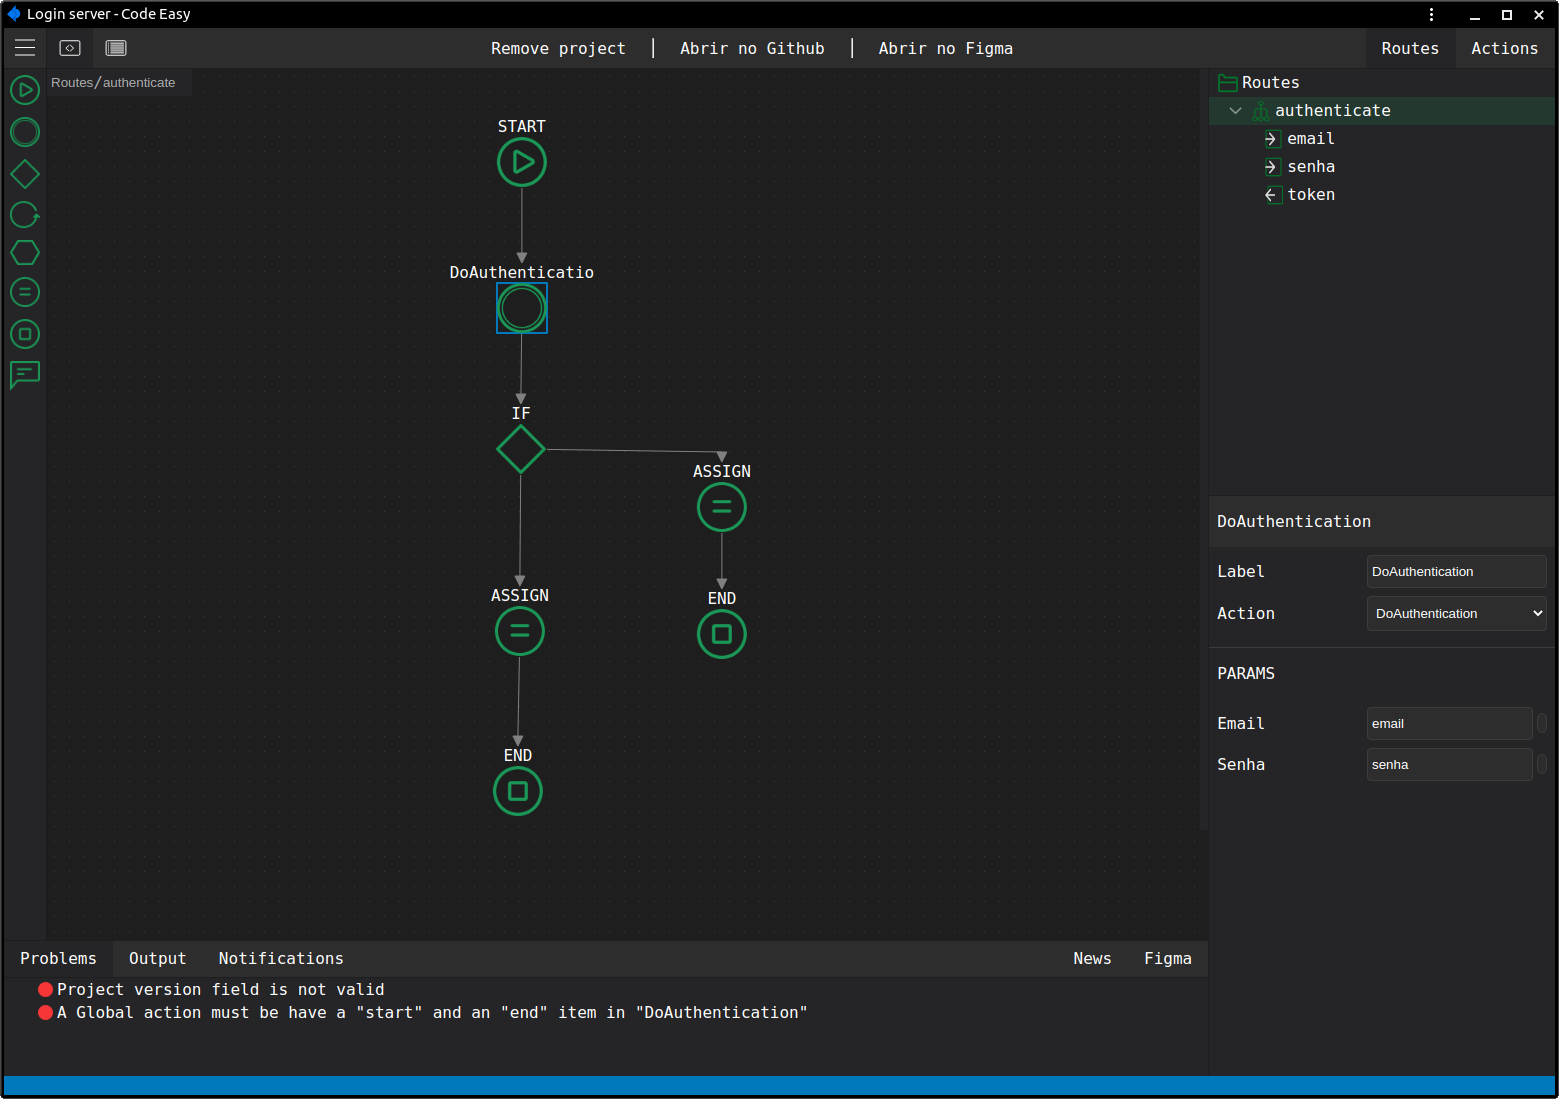
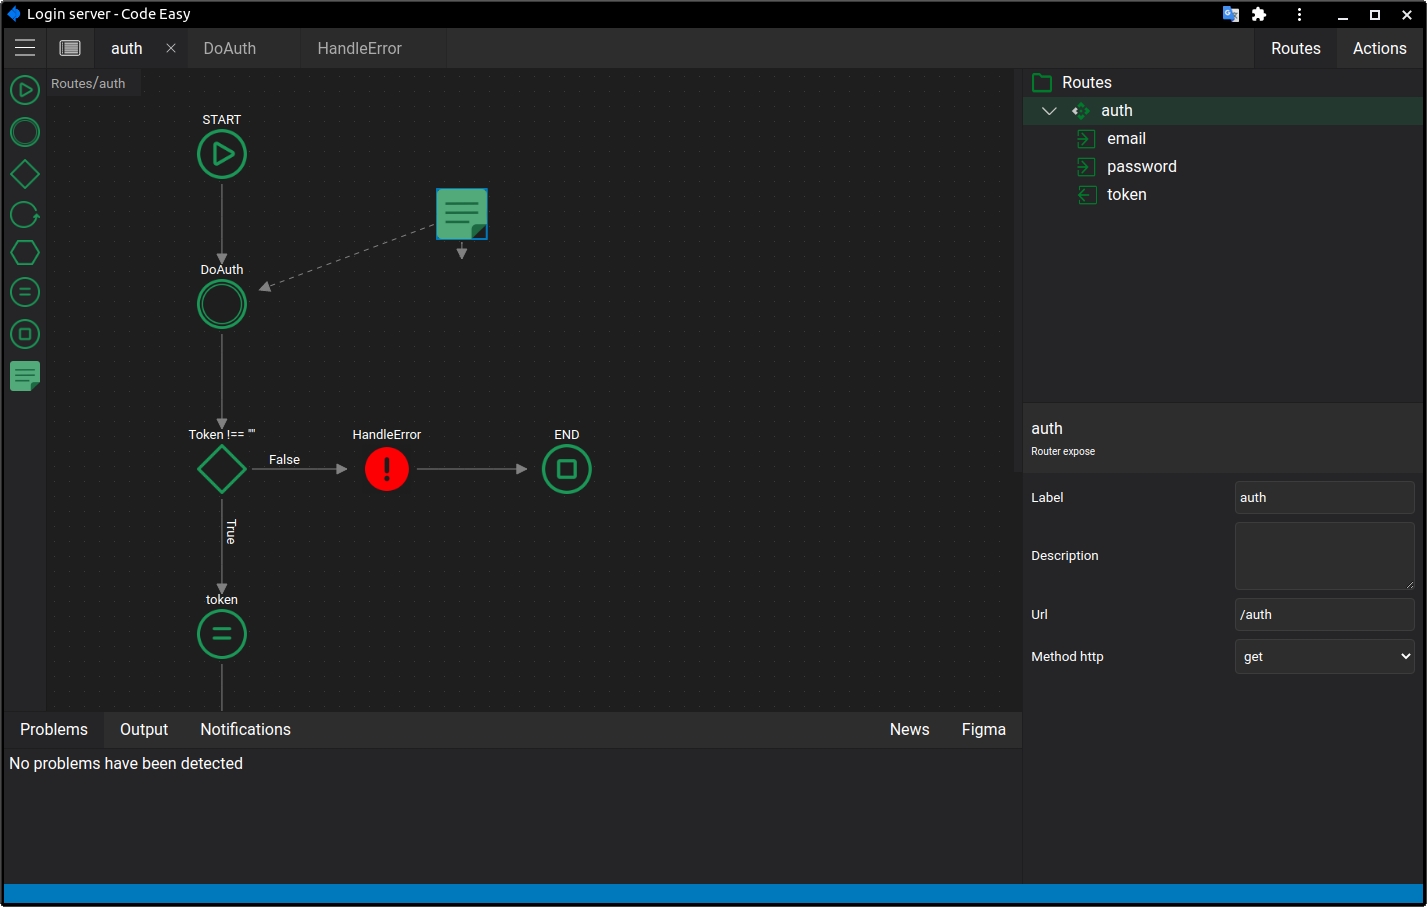
feat: added error validations

diff --git a/src/app/shared/services/helpers/ProblemsHelper.ts b/src/app/shared/services/helpers/ProblemsHelper.ts
@@ -5,7 +5,6 @@ import { ItemType } from "../../components/code-editor/shared/enums/ItemType";
 import { Project, IProjectConfigs } from "../../interfaces/Aplication";
 import { PropertieTypes } from "../../enuns/PropertieTypes";
 import { ComponentType } from "../../enuns/ComponentType";
-import { Tab } from "../../interfaces/Tabs";
 
 class ProblemsHelperService {
     private _problems: TreeInterface[] = [];
@@ -22,7 +21,7 @@ class ProblemsHelperService {
         project.tabs.forEach(tab => {
 
             // Valida alguns detalhes da tab
-            this._getTabsProblems(tab);
+            this._problems = [...this._problems, ...tab.getProblems()];
 
             // Valida os items da tab
             tab.items.forEach(treeItem => {
@@ -31,7 +30,6 @@ class ProblemsHelperService {
                 this._problems = [...this._problems, ...treeItem.getProblems()];
 
                 treeItem.items.forEach(flowItem => {
-                    flowItem.hasError = false;
 
                     // Valida os problemas presentes no flow item
                     this._problems = [...this._problems, ...flowItem.getProblems()];
@@ -41,12 +39,6 @@ class ProblemsHelperService {
 
                         flowItem.properties.forEach(prop => {
                             prop.valueHasError = false;
-
-                            // Valida se action está com o campo "action" vazio.
-                            if (prop.propertieType === PropertieTypes.action && prop.value === "") {
-                                this._addProblem(`In "${treeItem.label}" the flow item "${flowItem.name}" must have a valid value in the "${prop.name}" field.`, 'error');
-                                prop.valueHasError = true;
-                            }
 
                             if (prop.propertieType === PropertieTypes.action && prop.value !== "") {
 
@@ -145,14 +137,6 @@ class ProblemsHelperService {
             this._addProblem('Project Author name field cannot be less than 3 characters', 'warning');
         } else if (configs.autor.length > 50) {
             this._addProblem('Project Author name field cannot exceed 50 characters', 'warning');
-        }
-
-    }
-
-    private _getTabsProblems(tab: Tab) {
-
-        if (tab.items.length === 0 && tab.configs.type === ComponentType.tabRoutes) {
-            this._addProblem(`Add at least one route to your app`, 'error');
         }
 
     }

diff --git a/src/app/shared/interfaces/ItemTreeComponent.ts b/src/app/shared/interfaces/ItemTreeComponent.ts
@@ -170,9 +170,12 @@ export class ItemComponent implements IItemComponent {
         if (this.type !== ComponentType.routerConsume) {
 
             // Valida o numero de starts na tela
-            const numStarts = this.items.filter(itemFlow => itemFlow.itemType === ItemType.START);
+            let numStarts = this.items.filter(itemFlow => itemFlow.itemType === ItemType.START);
             if (numStarts.length > 1) {
                 addProblem(`In ${this.label} must have only start flow item`, 'error');
+                numStarts.forEach(start => start.hasError = true);
+            } else {
+                numStarts.forEach(start => start.hasError = false);
             }
 
             // Valida se encontra um start e um end na tela
@@ -181,8 +184,9 @@ export class ItemComponent implements IItemComponent {
                     addProblem(`A "${this.type}" must be have a "Start" and an "End" item in "${this.label}"`, 'error');
                 }
             }
+
             // Valida os ends
-            const unusedEnd = this.items.find(itemFlow => (itemFlow.itemType === ItemType.END) && !this.items.some(flowItem => flowItem.connections.some(connection => connection.connectionId === itemFlow.id)));
+            let unusedEnd = this.items.find(itemFlow => (itemFlow.itemType === ItemType.END) && !this.items.some(flowItem => flowItem.connections.some(connection => connection.connectionId === itemFlow.id)));
             if (unusedEnd) {
                 addProblem(`In "${this.label}" a "${unusedEnd.name}" flow item is not used`, 'error');
                 unusedEnd.hasError = true;

diff --git a/src/app/shared/interfaces/Tabs.ts b/src/app/shared/interfaces/Tabs.ts
@@ -1,4 +1,7 @@
 import { ItemComponent, ComponentConfigs } from "./ItemTreeComponent";
+import { TreeInterface } from "../components/tree-manager/shared/models";
+import { IconWarning, IconError } from "code-easy-components";
+import { ComponentType } from "../enuns/ComponentType";
 
 export class Tab {
     public configs: ComponentConfigs;
@@ -13,4 +16,29 @@ export class Tab {
         this.configs = this._fields.configs;
         this.items = this._fields.items.map(item => new ItemComponent(item));
     }
+
+    public getProblems(): TreeInterface[] {
+        let problems: TreeInterface[] = [];
+
+        const addProblem = (label: string, type: 'warning' | 'error') => {
+            problems.push({
+                icon: type === 'warning' ? IconWarning : IconError,
+                isDisabledSelect: true,
+                nodeExpanded: false,
+                isSelected: false,
+                id: undefined,
+                iconSize: 15,
+                type: "ITEM",
+                childs: [],
+                label,
+            });
+        }
+
+        if (this.items.length === 0 && this.configs.type === ComponentType.tabRoutes) {
+            addProblem(`Add at least one route to your app`, 'error');
+        }
+
+        return problems;
+    }
+
 }

diff --git a/src/app/pages/editor/Editor.tsx b/src/app/pages/editor/Editor.tsx
@@ -8,7 +8,7 @@ import { ProjectsStorage } from '../../shared/services/storage/ProjectsStorage';
 import { ProblemsHelper } from '../../shared/services/helpers/ProblemsHelper';
 import { ToolBar } from '../../shared/components/tool-bar/ToolBar';
 import { Project } from '../../shared/interfaces/Aplication';
-import { EditorTab } from './editor-tab/EditorTab';
+import { Playground } from './editor-tab/Playground';
 import './Editor.css';
 
 
@@ -16,7 +16,7 @@ export class Editor extends React.Component<any> {
     private params: any = this.props.match.params;
 
     public state: ICodeEditorContext = {
-        currentTab: <EditorTab />,
+        currentTab: <Playground />,
         project: ProjectsStorage.getProjectById(this.params.id),
         updateProjectState: (project: Project) => this.updateProjectState(project),
     }
@@ -32,7 +32,6 @@ export class Editor extends React.Component<any> {
 
         // WindowsTabsManager
         project = ProjectsStorage.updateWindowTabs(project);
-
 
         // Salva a nova versão do projeto no local storage
         ProjectsStorage.setProjectById(project);

diff --git a/src/app/shared/interfaces/ItemFlowComponent.ts b/src/app/shared/interfaces/ItemFlowComponent.ts
@@ -186,6 +186,19 @@ export class ItemFlowComplete implements IItemFlowComplete {
 
         }
 
+        // Valida as propriedades
+        this.properties.forEach(prop => {
+            prop.valueHasError = false;
+
+            // Valida se action está com o campo "action" vazio.
+            if (prop.propertieType === PropertieTypes.action && prop.value === "") {
+                addProblem(`The flow item "${this.name}" must have a valid value in the "${prop.name}" field.`, 'error');
+                prop.valueHasError = true;
+                this.hasError = true;
+            }
+
+        });
+
         if (problems.length <= 1) {
             return problems;
         } else {

diff --git a/src/app/pages/editor/editor-tab/Playground.tsx b/src/app/pages/editor/editor-tab/Playground.tsx
@@ -10,7 +10,7 @@ import { PropertiesEditorController } from './PropertiesEditor.Controller';
 import { TreeManagerController } from './TreeManager.Controller';
 import { FlowEditorController } from './FlowEditor.Controller';
 
-export const EditorTab: React.FC = () => {
+export const Playground: React.FC = () => {
     return (
         <TwoColumnsResizable
             aligment={"right"}
